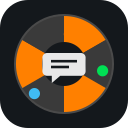
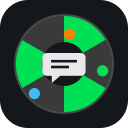
Swap primary accent from orange to green
Green is Letterboxd's actual primary brand color (orange/blue are
secondary trio accents) and reads more naturally as the "pick" color
for a swipe-to-choose interaction. Trio ball colors on the icon stay
in their original Orange/Green/Blue order.

Changed region(s): [[0.5, 0.5625, 0.8438, 0.875], [0.125, 0.3125, 0.3438, 0.6875], [0.5, 0.125, 0.8438, 0.4375]]

diff --git a/popup.css b/popup.css
@@ -3,8 +3,8 @@
   --lb-surface: #1c2228;
   --lb-card: #222932;
   --lb-border: #2c3440;
-  --lb-accent: #ff8000;
-  --lb-accent-dim: #cc6600;
+  --lb-accent: #00e054;
+  --lb-accent-dim: #00b043;
   --lb-muted: #68788a;
   --lb-text: #ffffff;
   --lb-text-dim: #9aabbc;